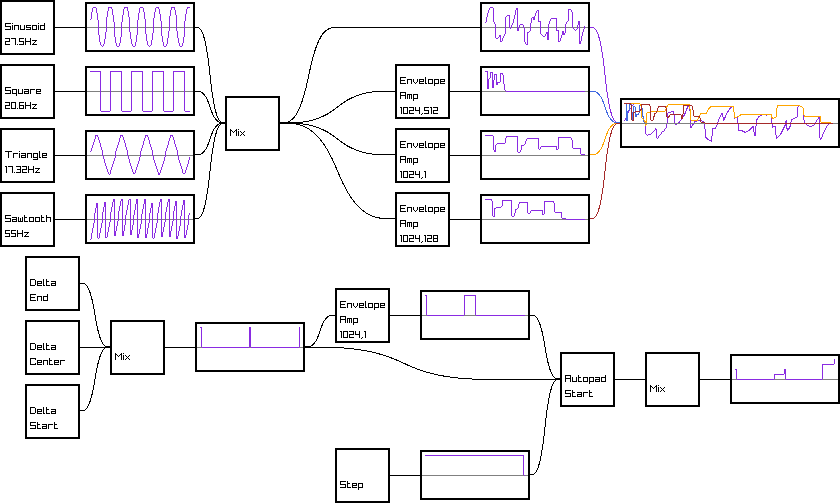
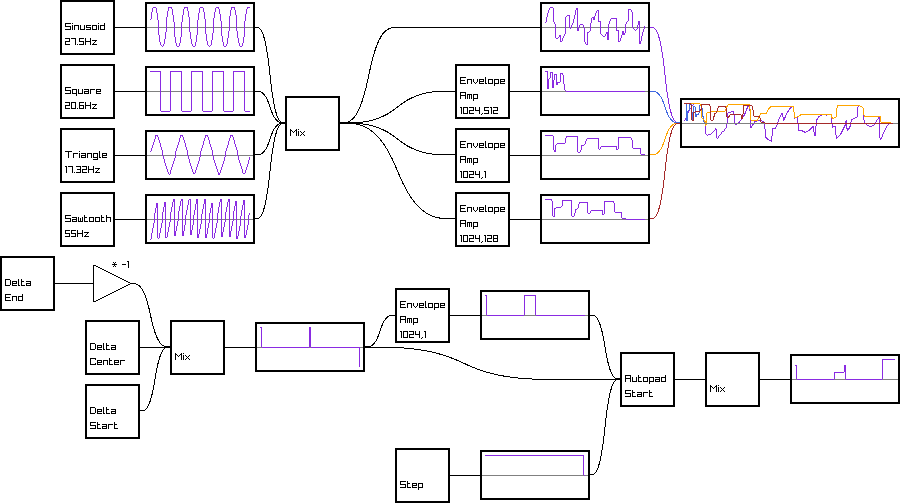
implement ConstMultiplier

diff --git a/src/dsp.rs b/src/dsp.rs
@@ -24,6 +24,12 @@ pub mod signals {
 
 pub mod blocks {
 
+    use raylib::{
+        math::Vector2,
+        prelude::{RaylibDraw, RaylibTextureModeExt},
+        texture::RaylibTexture2D,
+    };
+
     use crate::{
         graph::{Block, DInto},
         vis,
@@ -346,6 +352,60 @@ pub mod blocks {
                     self.t, self.window.frame_size, self.window.hop_length
                 ),
                 out,
+            )
+        }
+    }
+
+    #[derive(Debug, Default)]
+    pub struct ConstMultiplier(pub f32);
+
+    impl Block<Wave> for ConstMultiplier {
+        type Output = Wave;
+
+        fn process(&mut self, mut input: Wave) -> Self::Output {
+            for sample in input.iter_mut() {
+                *sample *= self.0;
+            }
+            input
+        }
+
+        fn process_and_visualize(
+            &mut self,
+            input: Wave,
+            context: &mut DrawContext,
+        ) -> (Self::Output, VisualizeResult) {
+            let out = self.process(input);
+            let mut tx = context.get_texture(vis::BOX_SIZE as _, vis::BOX_SIZE as _);
+            tx.set_texture_filter(
+                context.thread,
+                raylib::ffi::TextureFilter::TEXTURE_FILTER_ANISOTROPIC_16X,
+            );
+            let mut d = context.rl.begin_drawing(context.thread);
+            let mut d = d.begin_texture_mode(context.thread, &mut tx);
+            let pad = vis::T * 3f32;
+
+            let center = ((vis::BOX_SIZE - pad * 2f32) / 2f32) + pad;
+            d.draw_triangle_lines(
+                Vector2::new(0f32 + pad, 0f32 + pad),
+                Vector2::new(0f32 + pad, vis::BOX_SIZE - pad),
+                Vector2::new(vis::BOX_SIZE - pad, center),
+                vis::BORDER_COLOR,
+            );
+            d.draw_text(
+                &format!("* {}", self.0),
+                center as _,
+                (pad as i32) / 2,
+                1,
+                vis::TEXT_COLOR,
+            );
+            drop(d);
+            (
+                out,
+                VisualizeResult::Block {
+                    texture: tx,
+                    input_connections: vec![Vector2::new(0f32 + pad, center)],
+                    output_connections: vec![Vector2::new(vis::BOX_SIZE - pad, center)],
+                },
             )
         }
     }

diff --git a/src/setups/playground.rs b/src/setups/playground.rs
@@ -75,6 +75,7 @@ pub fn create_playground_blocks(
     );
 
     let sys_2 = blocks::synths::KroneckerDelta::End
+        .connect(ConstMultiplier(-1f32))
         .stack(blocks::synths::KroneckerDelta::Center)
         .stack(blocks::synths::KroneckerDelta::Start)
         .connect(blocks::Basic::Mix)
